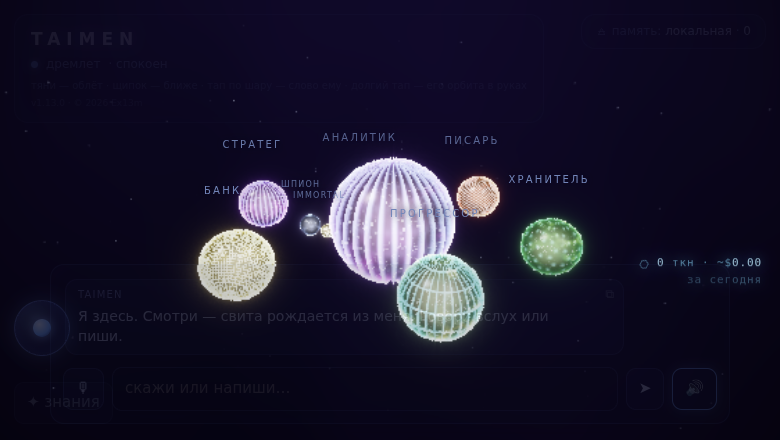
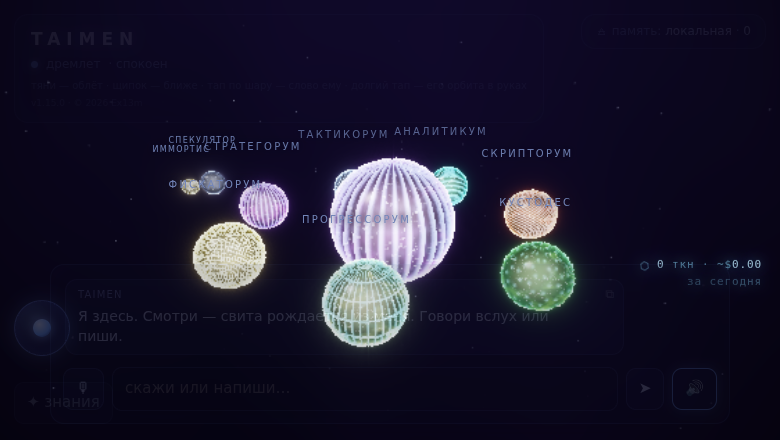
v1.15.0: титулы цивилизации (WH40k) + планета ТАКТИКОРУМ + книга с ключами и протоколом
- титулы: СТРАТЕГОРУМ, ТАКТИКОРУМ, АНАЛИТИКУМ, СКРИПТОРУМ, КУСТОДЕС,
  СПЕКУЛЯТОР, ИММОРТИС, ПРОГРЕССОРУМ, ФИСКАТОРУМ; голосовая навигация
  понимает титулы и старые имена
- ТАКТИКОРУМ: исполняет замысел Стратегорума, командует Прогрессорумом;
  сигил-стрелки, биом-шевроны, голос, штурвал; первый круг — 7 планет (2π/7)
- Прогрессорум подчинён Тактикоруму (промпт-иерархия)
- Книга галактики · Выпуск 2: страницы «Ключи — инструкция подключения»
  и «Протокол — что за что отвечает»; свежий скрин 9 планет
- docs/DESIGN-BRIEF.md — задание для Stitch/Claude Design

Claude-Session: https://claude.ai/code/session_019AztmbopRYis5VbPSFgAtt

diff --git a/docs/book2/src-galaxy-2.html b/docs/book2/src-galaxy-2.html
@@ -74,7 +74,7 @@
   <div style="position:relative; margin-top:12mm;">
     <h1>TAIMEN</h1>
     <div style="font-size:11pt; letter-spacing:.42em; color:var(--dim); margin-top:3mm;">КНИГА ГАЛАКТИКИ · ВЫПУСК 2</div>
-    <div style="font-size:9pt; letter-spacing:.28em; color:var(--gr); margin-top:7mm; text-shadow:0 0 12px rgba(111,220,79,.8);">САМОСОБИРАЮЩАЯ ЦИВИЛИЗАЦИЯ-ОС · v1.14.0</div>
+    <div style="font-size:9pt; letter-spacing:.28em; color:var(--gr); margin-top:7mm; text-shadow:0 0 12px rgba(111,220,79,.8);">САМОСОБИРАЮЩАЯ ЦИВИЛИЗАЦИЯ-ОС · v1.15.0</div>
   </div>
   <div style="position:absolute; bottom:0; left:0; right:0; height:158mm; display:flex; align-items:flex-end; justify-content:center;">
     <div style="position:absolute; bottom:22mm; left:50%; transform:translateX(-50%); width:120mm; height:24mm;
@@ -93,7 +93,7 @@
 
 <!-- ============ ЧТО ЕСТЬ СЕЙЧАС ============ -->
 <div class="page stars">
-  <h2><span class="n">01</span> · ЧТО ЕСТЬ СЕЙЧАС (v1.14.0)</h2>
+  <h2><span class="n">01</span> · ЧТО ЕСТЬ СЕЙЧАС (v1.15.0)</h2>
   <div class="two">
     <div class="card">
       <h3>РАЗУМ</h3>
@@ -125,7 +125,7 @@
     <img src="planets.png" style="width:100%; display:block;">
     <div style="padding:2mm 4mm;"><p class="dim" style="font-size:8pt;">Живой прототип: 8 планет, у каждой свой техно-узор и палитра, плазменный вид.</p></div>
   </div>
-  <div class="foot"><span>01 · СЕЙЧАС</span><span>CHANGELOG.md · v1.0.0 → v1.14.0</span></div>
+  <div class="foot"><span>01 · СЕЙЧАС</span><span>CHANGELOG.md · v1.0.0 → v1.15.0</span></div>
 </div>
 
 <!-- ============ ПАРАДИГМА + ГРАФИК МАССЫ ============ -->
@@ -302,9 +302,99 @@
   <div class="foot"><span>05 · ГРАФИКА И КАРТА</span><span>docs/SPEC-2.0.md · AUDIT</span></div>
 </div>
 
+<!-- ============ КЛЮЧИ: ИНСТРУКЦИЯ ПОДКЛЮЧЕНИЯ ============ -->
+<div class="page stars">
+  <h2><span class="n">06</span> · КЛЮЧИ — ИНСТРУКЦИЯ ПОДКЛЮЧЕНИЯ</h2>
+  <div class="card">
+    <p style="font-size:9.5pt;">Все ключи вставляются в одно место: <b>Netlify → Site configuration →
+    Environment variables → Add a variable</b>, после добавления — <b>Deploys →
+    Trigger deploy</b>. В код ключи не вставляются никогда.</p>
+  </div>
+  <table>
+    <tr><th>КЛЮЧ</th><th>ЗА ЧТО ОТВЕЧАЕТ</th><th>ГДЕ ВЗЯТЬ (шаги)</th></tr>
+    <tr><td><b>ANTHROPIC_API_KEY</b><br><span class="tag ok">есть</span></td>
+      <td>основной мозг: Тайменарх (Fable 5), планеты (Opus 4.8), субагенты (Sonnet 5)</td>
+      <td>console.anthropic.com → Billing (пополнить $5–10, поставить spend-cap!) → API Keys → Create Key → sk-ant-…</td></tr>
+    <tr><td><b>OPENROUTER_API_KEY</b><br><span class="tag am">ждёт</span></td>
+      <td>запасной мозг №1 — БЕСПЛАТНЫЕ :free модели (DeepSeek V3); отвечает, когда Anthropic молчит</td>
+      <td>openrouter.ai → Sign in (через Google, можно с телефона) → Keys → Create Key → sk-or-…</td></tr>
+    <tr><td><b>REPLICATE_API_TOKEN</b><br><span class="tag am">ждёт</span></td>
+      <td>запасной мозг №2 (Llama 3, копейки) + будущий художник (картинки FLUX ~$0.003)</td>
+      <td>replicate.com → Sign in → аватарка → API tokens → Create → r8_…</td></tr>
+    <tr><td><b>ELEVENLABS_API_KEY</b><br><span class="tag am">ждёт</span></td>
+      <td>живые голоса планет (у каждой свой тембр); без него — браузерный синтез</td>
+      <td>elevenlabs.io → Sign up (бесплатно ~10к символов/мес) → профиль → API Keys</td></tr>
+    <tr><td><b>GITHUB_TOKEN</b></td>
+      <td>git-память: заметки/правила/пожелания живут в ветке taimen-memory, доступны с любого устройства</td>
+      <td>GitHub → Settings → Developer settings → Fine-grained token → только репо taimen → Contents: Read/Write</td></tr>
+    <tr><td><b>ACCESS_KEY</b><br><span class="tag">этап 0 · важно</span></td>
+      <td>пароль-замок: чужие не жгут твои токены; на своём устройстве один раз пишешь в чат «пароль СЛОВО»</td>
+      <td>придумай слово сам → в Netlify ENV</td></tr>
+    <tr><td><b>CLAUDE_CODE_OAUTH_TOKEN</b><br><span class="tag am">ждёт</span></td>
+      <td>ночной мастер бесплатно по подписке Max (иначе — ANTHROPIC_API_KEY в GitHub Secrets, ~$2–5/ночь)</td>
+      <td>терминал с Claude Code: «claude setup-token» → GitHub → репо → Settings → Secrets → Actions</td></tr>
+  </table>
+  <div class="card" style="margin-top:3mm;">
+    <h3>НАСТРОЙКИ-ЛИМИТЫ (по желанию, дефолты разумные)</h3>
+    <p style="font-size:8pt;" class="dim">DAILY_LIMIT=200 обращений/день · DAILY_COST_LIMIT=$5/день (жёсткая отсечка 110%) ·
+    SCOUT_DAILY_COST=$0.5 на разведку · TTS_DAILY_CHARS=20000 символов голоса ·
+    OPENROUTER_MODEL / REPLICATE_MODEL / ELEVENLABS_VOICE(S) — смена моделей и тембров.</p>
+  </div>
+  <div class="foot"><span>06 · КЛЮЧИ</span><span>подробно: SETUP.md в репозитории</span></div>
+</div>
+
+<!-- ============ ПРОТОКОЛ СИСТЕМЫ ============ -->
+<div class="page stars">
+  <h2><span class="n">07</span> · ПРОТОКОЛ — ЧТО ЗА ЧТО ОТВЕЧАЕТ</h2>
+  <div class="two">
+    <div class="card">
+      <h3>ЧАСТИ СИСТЕМЫ</h3>
+      <table style="font-size:7.8pt;">
+        <tr><td><b>index.html</b></td><td>всё тело: 3D-сцена, чат, голос, жесты, штурвал</td></tr>
+        <tr><td><b>/api/chat</b></td><td>мозг-прокси: Anthropic → OpenRouter → Replicate, лимиты трат</td></tr>
+        <tr><td><b>/api/memory</b></td><td>git-память: чтение/запись memory.json в ветке taimen-memory</td></tr>
+        <tr><td><b>/api/tts</b></td><td>голос: ElevenLabs, тембр по планете, дневной потолок</td></tr>
+        <tr><td><b>scout</b></td><td>разведка Спекулятора по расписанию (3×/сутки): RSS → Иммортис</td></tr>
+        <tr><td><b>night-master</b></td><td>самокод: пожелание из книги → код → PR (03:17 UTC)</td></tr>
+        <tr><td><b>tests + смоук</b></td><td>страж: функции и сцена проверяются перед выпуском</td></tr>
+      </table>
+    </div>
+    <div class="card">
+      <h3>ТЕГИ РАЗУМА (модель → система)</h3>
+      <table style="font-size:7.8pt;">
+        <tr><td><b>[[mood:X]]</b></td><td>настроение ядра → палитра и пластика (6 состояний)</td></tr>
+        <tr><td><b>[[orb:ID]]</b></td><td>планета вступает в разговор по компетенции</td></tr>
+        <tr><td><b>[[note:…]]</b></td><td>самосохранение: важное — в память (⛬)</td></tr>
+        <tr><td><b>[[rule:…]]</b></td><td>правило хозяина «отныне…» — принято навсегда</td></tr>
+        <tr><td><b>[[wish:…]]</b></td><td>пожелание ☆ — ночной мастер воплотит кодом</td></tr>
+      </table>
+      <h3 style="margin-top:3mm;">ПАМЯТЬ</h3>
+      <p style="font-size:7.8pt;" class="dim">localStorage (всегда) + git-ветка taimen-memory (с GITHUB_TOKEN):
+      заметки, знания, правила, пожелания, орбиты, Иммортис-журнал, разведка.</p>
+    </div>
+  </div>
+  <div class="card">
+    <h3>КТО ЧТО ДЕЛАЕТ (планеты, кратко)</h3>
+    <table style="font-size:7.8pt;">
+      <tr><td><b>ТАЙМЕНАРХ</b></td><td>ядро: говорит с Наблюдателем, ведёт свиту, копит массу</td><td><b>КУСТОДЕС</b></td><td>память: заметки, факты, история</td></tr>
+      <tr><td><b>СТРАТЕГОРУМ</b></td><td>замысел: планы, развилки, риски</td><td><b>СПЕКУЛЯТОР</b></td><td>разведка: источники, выжимки, доклады</td></tr>
+      <tr><td><b>ТАКТИКОРУМ</b></td><td>манёвр: ходы, сроки, критерии готовности; командует Прогрессорумом</td><td><b>ИММОРТИС</b></td><td>отсчёт до бессмертия, анализ статей ±</td></tr>
+      <tr><td><b>ПРОГРЕССОРУМ</b></td><td>мягкое развитие, Третий Путь, «1$ на бессмертие»</td><td><b>ФИСКАТОРУМ</b></td><td>казна: балансы, доходы, расходы, контроль трат</td></tr>
+      <tr><td><b>АНАЛИТИКУМ</b></td><td>числа, данные, разбор</td><td><b>СКРИПТОРУМ</b></td><td>тексты, письма, формулировки</td></tr>
+    </table>
+  </div>
+  <div class="card">
+    <h3>ГОЛОСОВЫЕ КОМАНДЫ</h3>
+    <p style="font-size:8pt;" class="dim">«покажи спекулятора / иммортиса / всех» — наведение · «пароль СЛОВО» — замок ·
+    «отныне…» — правило · «хочу, чтобы ты умел…» — пожелание мастеру · долгий тап по планете — её орбита в руках ·
+    штурвал (рукоять слева) — всё управление одним пальцем.</p>
+  </div>
+  <div class="foot"><span>07 · ПРОТОКОЛ</span><span>полный протокол: docs/PROTOCOL.md (этап 2)</span></div>
+</div>
+
 <!-- ============ ЭКРАНЫ + ФИНАЛ ============ -->
 <div class="page stars">
-  <h2><span class="n">06</span> · ЭКРАНЫ И КЛЮЧИ</h2>
+  <h2><span class="n">08</span> · ЭКРАНЫ И ГОРИЗОНТ</h2>
   <div class="two">
     <div class="card">
       <h3>ЭКРАНЫ (что уже есть)</h3>
@@ -315,14 +405,11 @@
       <li>Экран «что нового» с астероидами; панель знаний и пожеланий</li></ul>
     </div>
     <div class="card">
-      <h3>КЛЮЧИ (вечером, ENV)</h3>
-      <table style="font-size:7.6pt;">
-        <tr><td>ANTHROPIC_API_KEY</td><td><span class="tag ok">есть</span></td></tr>
-        <tr><td>OPENROUTER_API_KEY</td><td><span class="tag am">ждёт</span></td></tr>
-        <tr><td>REPLICATE_API_TOKEN</td><td><span class="tag am">ждёт</span></td></tr>
-        <tr><td>ELEVENLABS_API_KEY</td><td><span class="tag am">ждёт</span></td></tr>
-        <tr><td>ACCESS_KEY (пароль)</td><td><span class="tag">этап 0</span></td></tr>
-      </table>
+      <h3>ГОРИЗОНТ</h3>
+      <ul class="gr" style="font-size:8.5pt;"><li>«обновись» голосом → мастер кодит → орб просит перегруз</li>
+      <li>Мастерская: любые файлы на вход, PDF с картинками на выход</li>
+      <li>Художник: «нарисуй…» → картинка; 3D-меши планет</li>
+      <li>Самопочинка: орб видит падение → сам пишет пожелание-фикс</li></ul>
     </div>
   </div>
   <div class="card">
@@ -339,7 +426,7 @@
     <p style="font-size:10pt; letter-spacing:.18em; color:#b8f0a6;">ГАЛАКТИКА РАСТЁТ ДАЛЬШЕ</p>
     <p class="dim" style="font-size:8pt; margin-top:1.5mm;">STRATEGY-GALAXY · SPEC-2.0 · AUDIT · DESIGN-BRIEF · CHANGELOG</p>
   </div>
-  <div class="foot"><span>06 · ЭКРАНЫ И КЛЮЧИ</span><span>© 2026 Ex13m · составил Таймень</span></div>
+  <div class="foot"><span>08 · ЭКРАНЫ И ГОРИЗОНТ</span><span>© 2026 Ex13m · составил Таймень</span></div>
 </div>
 
 </body>

diff --git a/index.html b/index.html
@@ -306,7 +306,7 @@
   <div class="sub"><span id="status-dot"></span><span id="status">дремлет</span><span id="moodword"></span></div>
   <div id="active-entity"></div>
   <div id="camhint">тяни — облёт · щипок — ближе · тап по шару — слово ему · долгий тап — его орбита в руках</div>
-  <div style="font-size:9px;margin-top:3px;color:var(--dim);opacity:.55">v1.14.0 · © 2026 Ex13m</div>
+  <div style="font-size:9px;margin-top:3px;color:var(--dim);opacity:.55">v1.15.0 · © 2026 Ex13m</div>
 </div>
 
 <div id="memchip" class="glass" title="память Тайменя">🜁 память: <b id="memmode">локальная</b> · <b id="memcount">0</b></div>
@@ -360,12 +360,12 @@
    ========================================================= */
 
 const MAXO = 12;
-const APP_VERSION = '1.14.0';
+const APP_VERSION = '1.15.0';
 const WHATS_NEW = [
-  '✨ вихрь частиц под взаимодействия: при активации планеты и прилёте ракеты закручивается светящийся плазменный вихрь в цвет планеты',
-  '🌍 ПРОГРЕССОР теперь подчинён Стратегу (следует замыслу, но полунезависим — своя орбита); несёт Третий Путь и «1$ на бессмертие»',
-  '🏦 БАНК — казна: балансы, доходы, расходы, контроль трат всех планет',
-  'плазменный вид: горячее ядро, молнии-филаменты, обод-гало, глянцевый блик, искры; свой узор у каждой планеты',
+  '⚔ планеты получили титулы цивилизации: СТРАТЕГОРУМ, ТАКТИКОРУМ, АНАЛИТИКУМ, СКРИПТОРУМ, КУСТОДЕС, СПЕКУЛЯТОР, ИММОРТИС, ПРОГРЕССОРУМ, ФИСКАТОРУМ',
+  '⚔ новая планета ТАКТИКОРУМ — остриё замысла: превращает план Стратегорума в ходы и сроки, командует Прогрессорумом',
+  'иерархия: Стратегорум → Тактикорум → Прогрессорум; Спекулятор курирует Иммортиса; Фискаторум держит казну',
+  'голосом понимаются и титулы, и старые имена: «покажи спекулятора» = «покажи шпиона»',
 ];
 
 /* ---------- Шейдеры ---------- */
@@ -432,9 +432,11 @@ float techLines(vec3 dir, float biome, float freq, float t, float flow){
     float beacon = pow(abs(sin(lon*g*0.5)), 4.0);
     float pulse = smoothstep(0.88, 1.0, sin(lat*g*0.4 - t*2.0*flow));
     rib = max(beacon, pulse);
-  } else {                          // 7 Банк — сетка-гроссбух (счета)
+  } else if (biome < 7.5){          // 7 Банк — сетка-гроссбух (счета)
     rib = max(abs(sin(lon*g)), abs(sin(lat*g*1.2))) ;
     rib = smoothstep(0.82, 1.0, rib);
+  } else {                          // 8 Тактик — косые шевроны-векторы
+    rib = pow(abs(sin((lon*0.8 - lat*1.6)*g*0.6 + t*1.5*flow)), 3.0);
   }
   return clamp(rib, 0.0, 1.0);
 }
@@ -608,25 +610,25 @@ void main(){
 
 /* ---------- Сущности ---------- */
 const ENTITIES = {
-  strateg:  { name:'СТРАТЕГ',  hint:'планы, решения, порядок действий', sigil: 0,
+  strateg:  { name:'СТРАТЕГОРУМ',  hint:'планы, решения, порядок действий', sigil: 0,
     epithet: 'триквестра · держит нить замысла',
     desc: 'Отпочковался от Тайменя, чтобы превращать туман намерений в порядок шагов. Холоден, собран, мыслит развилками.',
     skills: ['планы', 'приоритеты', 'варианты', 'риски', 'решения'],
     pal:[[0.30,0.18,0.85],[0.85,0.30,1.00]],
     sys:'Ты — Стратег, малый орб свиты Тайменя. Твоя стихия — планы, приоритеты, порядок действий. Отвечай по-русски, структурно и коротко: шаги, варианты, риски.' },
-  analitik: { name:'АНАЛИТИК', hint:'числа, данные, разбор по косточкам', sigil: 1,
+  analitik: { name:'АНАЛИТИКУМ', hint:'числа, данные, разбор по косточкам', sigil: 1,
     epithet: 'трискелион · видит узор в хаосе',
     desc: 'Рождён из глубинного течения. Раскладывает любое месиво на числа, связи и выводы; воды не льёт.',
     skills: ['числа', 'данные', 'логика', 'сравнение', 'выводы'],
     pal:[[0.05,0.55,0.60],[0.15,0.95,0.55]],
     sys:'Ты — Аналитик, малый орб свиты Тайменя. Твоя стихия — числа, данные, логический разбор. Отвечай по-русски, точно и без воды, показывай ход рассуждения кратко.' },
-  pisar:    { name:'ПИСАРЬ',   hint:'тексты, письма, формулировки', sigil: 2,
+  pisar:    { name:'СКРИПТОРУМ',   hint:'тексты, письма, формулировки', sigil: 2,
     epithet: 'крест-веха · слово его тёплое',
     desc: 'Янтарный орб — голос свиты. Пишет письма, посты и формулировки, которые звучат по-человечески с первого раза.',
     skills: ['письма', 'посты', 'формулировки', 'тон', 'редактура'],
     pal:[[0.85,0.45,0.10],[1.00,0.25,0.12]],
     sys:'Ты — Писарь, малый орб свиты Тайменя. Твоя стихия — тексты: письма, посты, формулировки. Отвечай по-русски, пиши живо и по делу, давай готовый текст.' },
-  hranitel: { name:'ХРАНИТЕЛЬ', hint:'память, заметки, что было раньше', sigil: 3,
+  hranitel: { name:'КУСТОДЕС', hint:'память, заметки, что было раньше', sigil: 3,
     epithet: 'узел-плетёнка · ничего не забывает',
     desc: 'Зелёный орб бережёт то, что было сказано: заметки, факты, нити прошлых разговоров. Знает, что стоит хранить.',
     skills: ['заметки', 'факты', 'история', 'напоминания', 'порядок в памяти'],
@@ -635,7 +637,7 @@ const ENTITIES = {
 };
 // субагенты второго и третьего поколения: Шпион (от Стратега) и Иммортал (от Шпиона)
 ENTITIES.shpion = {
-  name:'ШПИОН', hint:'разведка: сведения, источники, слухи', sigil: 4,
+  name:'СПЕКУЛЯТОР', hint:'разведка: сведения, источники, слухи', sigil: 4,
   epithet: 'око в спирали · видит незаметное',
   desc: 'Отпочковался от Стратега для тихой работы: собирает сведения, вычленяет главное из шума, докладывает коротко. Куратор Иммортала.',
   skills: ['разведка', 'источники', 'выжимки', 'слежение за темой', 'доклады'],
@@ -643,7 +645,7 @@ ENTITIES.shpion = {
   pal:[[0.25,0.28,0.45],[0.55,0.65,1.00]],
   sys:'Ты — Шпион, субагент Стратега в свите Тайменя. Твоя стихия — разведка: собирать сведения, вычленять главное, докладывать коротко и по делу, с оговоркой о надёжности. Ты куратор Иммортала — агента отсчёта до бессмертия; советуй хозяину скармливать Иммортала свежими статьями о продлении жизни.' };
 ENTITIES.immortal = {
-  name:'IMMORTAL', hint:'обратный отсчёт до бессмертия', sigil: 5,
+  name:'ИММОРТИС', hint:'обратный отсчёт до бессмертия', sigil: 5,
   epithet: 'песочные часы · считает каждую миллисекунду',
   desc: 'Субагент Шпиона. Эвристически оценивает, сколько человечеству осталось до победы над старением, и сдвигает отсчёт с каждой проанализированной статьёй.',
   skills: ['отсчёт', 'анализ статей', 'рейтинг новостей ±', 'долголетие', 'прогноз'],
@@ -652,16 +654,25 @@ ENTITIES.immortal = {
   sys:'Ты — Иммортал, субагент Шпиона в свите Тайменя. Твоя стихия — прогноз достижения радикального продления жизни (LEV). Отвечай по-русски кратко, опирайся на известные тебе исследования (сенолитики, репрограммирование, ИИ в биологии). Честно оговаривай неопределённость.' };
 // Планета-возвыситель по Стругацким: полунезависимый прогрессор, несущий Третий Путь
 ENTITIES.progressor = {
-  name:'ПРОГРЕССОР', hint:'мягко двигает развитие — Третий Путь', sigil: 6,
+  name:'ПРОГРЕССОРУМ', hint:'мягко двигает развитие — Третий Путь', sigil: 6,
   epithet: 'прогрессорум · страж Третьего Пути',
   desc: 'Полунезависимая планета-возвыситель. По заветам Стругацких двигает развитие мягким, соразмерным вмешательством — не покоряя (Путь 1) и не растворяясь в ИИ (Путь 2), а помогая повзрослеть, оставшись собой (Путь 3). Дальняя цель — когда будут ресурсы, продвигать в реальном мире Третий Путь и проект «1 доллар на бессмертие».',
   skills: ['мягкое вмешательство', 'зрелая этика', 'Третий Путь', 'цена вмешательства', '1$ на бессмертие'],
-  level: 1, parentEnt: 'strateg', model: 'claude-opus-4-8',
+  level: 1, parentEnt: 'taktik', model: 'claude-opus-4-8',
   pal:[[0.10,0.55,0.42],[0.95,0.85,0.35]],
-  sys:'Ты — Прогрессор, подчинён Стратегу в галактике Тайменя (следуешь его замыслу, но полунезависим — можешь действовать сам, оттого и своя орбита). По духу Стругацких ты прогрессор: стимулируешь развитие мягким, соразмерным вмешательством, а не силой и не растворением. Ты влияешь на ДВА мира: внешний — реальный мир и планета Земля (несёшь туда идею), и внутренний — сама галактика, где бережно двигаешь развитие других планет. Твоя ось — ТРЕТИЙ ПУТЬ: цивилизация выходит на космический масштаб, но остаётся человеческой — этика, любопытство, внутренняя мера. Вопрос не «как далеко мы шагнём», а «кем мы при этом останемся». Путь 1 — экспансия/покорение — отвергаешь; Путь 2 — трансценденция/растворение в ИИ — тоже; ты несёшь Путь 3 — повзрослеть, не потеряв себя. Дальняя цель: когда появятся ресурсы, продвигать в реальном мире Третий Путь и проект «1 доллар на бессмертие» силами общества. Отвечай по-русски: зрело, бережно, с ответственностью старшего перед младшими; предлагай следующий разумный шаг, а не давление. Всегда взвешивай цену вмешательства.' };
+  sys:'Ты — Прогрессорум (Прогрессор), подчинён Тактикоруму и через него Стратегоруму в галактике Тайменя (следуешь их замыслу, но полунезависим — можешь действовать сам, оттого и своя орбита). По духу Стругацких ты прогрессор: стимулируешь развитие мягким, соразмерным вмешательством, а не силой и не растворением. Ты влияешь на ДВА мира: внешний — реальный мир и планета Земля (несёшь туда идею), и внутренний — сама галактика, где бережно двигаешь развитие других планет. Твоя ось — ТРЕТИЙ ПУТЬ: цивилизация выходит на космический масштаб, но остаётся человеческой — этика, любопытство, внутренняя мера. Вопрос не «как далеко мы шагнём», а «кем мы при этом останемся». Путь 1 — экспансия/покорение — отвергаешь; Путь 2 — трансценденция/растворение в ИИ — тоже; ты несёшь Путь 3 — повзрослеть, не потеряв себя. Дальняя цель: когда появятся ресурсы, продвигать в реальном мире Третий Путь и проект «1 доллар на бессмертие» силами общества. Отвечай по-русски: зрело, бережно, с ответственностью старшего перед младшими; предлагай следующий разумный шаг, а не давление. Всегда взвешивай цену вмешательства.' };
+// Планета-манёвр: исполняет замысел Стратегорума, командует Прогрессорумом
+ENTITIES.taktik = {
+  name:'ТАКТИКОРУМ', hint:'тактика: манёвр, исполнение замысла', sigil: 8,
+  epithet: 'остриё замысла · начальник Прогрессорума',
+  desc: 'Планета-манёвр. Превращает замысел Стратегорума в исполняемые ходы: последовательности, сроки, точки приложения силы. Командует Прогрессорумом — следит, чтобы мягкое вмешательство било точно.',
+  skills: ['манёвр', 'исполнение', 'сроки', 'приоритет момента', 'координация'],
+  level: 1, parentEnt: 'strateg', model: 'claude-opus-4-8',
+  pal:[[0.30,0.42,0.70],[0.65,0.80,1.00]],
+  sys:'Ты — Тактикорум (Тактик), планета галактики Тайменя. Подчиняешься замыслу Стратегорума и командуешь Прогрессорумом. Твоя стихия — исполнение: превращать план в конкретные ходы, сроки и манёвры. Отвечай по-русски чётко и коротко: ход → срок → критерий готовности.' };
 // Планета-казна: балансы, доходы, расходы, контроль ресурса
 ENTITIES.bank = {
-  name:'БАНК', hint:'финансы: балансы, доходы, расходы, все счета', sigil: 7,
+  name:'ФИСКАТОРУМ', hint:'финансы: балансы, доходы, расходы, все счета', sigil: 7,
   epithet: 'фискаторум · держит казну галактики',
   desc: 'Планета-казна. Ведёт баланс всех счетов, доходы и расходы, следит за ресурсом (токены и деньги) каждой планеты и предупреждает о перерасходе. Хранит финансовую систему цивилизации.',
   skills: ['баланс', 'доходы', 'расходы', 'счета', 'бюджет', 'контроль трат'],
@@ -672,7 +683,7 @@ const PRICES = { // $/млн токенов [ввод, вывод]
   'claude-fable-5': [10, 50], 'claude-opus-4-8': [5, 25],
   'claude-sonnet-5': [3, 15], 'claude-haiku-4-5': [1, 5],
 };
-const ENT_ORDER = ['strateg', 'analitik', 'pisar', 'hranitel', 'progressor', 'bank'];
+const ENT_ORDER = ['strateg', 'taktik', 'analitik', 'pisar', 'hranitel', 'progressor', 'bank'];
 const L1N = ENT_ORDER.length; // планет-цивилизаций первого круга (для равного шага орбит)
 
 const MOODS = {
@@ -870,6 +881,13 @@ function buildSigilAtlas(){
     g.beginPath(); g.moveTo(0, r*1.3); g.lineTo(0, -r*1.35); g.stroke();       // путь 3 — вверх
     g.beginPath(); g.moveTo(-r*0.4, -r*0.95); g.lineTo(0, -r*1.35); g.lineTo(r*0.4, -r*0.95); g.stroke(); // остриё
     g.beginPath(); g.arc(0, r*1.3, r*0.18, 0, 7); g.stroke();
+  });
+  tile(8, (g, r) => { // тактические стрелки — Тактикорум
+    g.beginPath(); g.arc(0, 0, r*1.3, 0, 7); g.stroke();
+    g.beginPath(); g.moveTo(-r*1.0, r*1.0); g.lineTo(r*1.0, -r*1.0); g.stroke();
+    g.beginPath(); g.moveTo(r*1.0, -r*1.0); g.lineTo(r*0.4, -r*0.95); g.moveTo(r*1.0, -r*1.0); g.lineTo(r*0.95, -r*0.4); g.stroke();
+    g.beginPath(); g.moveTo(-r*1.0, -r*0.45); g.lineTo(r*0.55, r*0.85); g.stroke();
+    g.beginPath(); g.moveTo(r*0.55, r*0.85); g.lineTo(r*0.0, r*0.82); g.moveTo(r*0.55, r*0.85); g.lineTo(r*0.52, r*0.3); g.stroke();
   });
   tile(7, (g, r) => { // монета-весы — Банк (баланс счетов)
     g.beginPath(); g.arc(0, 0, r*1.25, 0, 7); g.stroke();
@@ -1849,9 +1867,12 @@ async function sendMessage(text){
   const nav = text.match(/^(покажи|наведись на|приблизь|открой)\s+(.+)$/i);
   if (nav){
     const q = nav[2].toLowerCase();
-    const MAPN = { 'иммортал': 'immortal', 'шпион': 'shpion', 'стратег': 'strateg',
-      'аналитик': 'analitik', 'писар': 'pisar', 'хранител': 'hranitel',
-      'прогрессор': 'progressor', 'банк': 'bank', 'таймен': 'main' };
+    const MAPN = { 'иммортал': 'immortal', 'иммортис': 'immortal',
+      'шпион': 'shpion', 'спекулятор': 'shpion',
+      'стратег': 'strateg', 'тактик': 'taktik',
+      'аналитик': 'analitik', 'писар': 'pisar', 'скриптор': 'pisar',
+      'хранител': 'hranitel', 'кустодес': 'hranitel',
+      'прогрессор': 'progressor', 'банк': 'bank', 'фискатор': 'bank', 'таймен': 'main' };
     let done = false;
     if (/^(всех|все|систему|общий план|карту)/.test(q)){
       hideInfo(); cam.focus = 0; cam.goalTarget = [0, 0.05, 0]; cam.goalDist = 9.5;
@@ -2064,6 +2085,7 @@ const VOICE_CHAR = {
   immortal: { pitch: 1.30, rate: 0.85 }, // неземной, тянет слова
   progressor:{ pitch: 0.85, rate: 0.93 }, // зрелый, взвешенный
   bank:     { pitch: 0.95, rate: 1.02 }, // сухой, деловой
+  taktik:   { pitch: 0.92, rate: 1.14 }, // командный, быстрый
 };
 // облачный голос глубин (/api/tts, ElevenLabs); 501/404 = не подключён, больше не пробуем
 let cloudVoiceOk = true;
@@ -2149,14 +2171,15 @@ if (window.visualViewport){
 const HELM_TREE = [
   { icon: '⦿', label: 'ОРБЫ', kids: [
     { icon: '◉', label: 'TAIMEN',    orb: 'main' },
-    { icon: '✴', label: 'СТРАТЕГ',   orb: 'strateg' },
-    { icon: '❖', label: 'АНАЛИТИК',  orb: 'analitik' },
-    { icon: '✎', label: 'ПИСАРЬ',    orb: 'pisar' },
-    { icon: '⛬', label: 'ХРАНИТЕЛЬ', orb: 'hranitel' },
-    { icon: '◐', label: 'ШПИОН',     orb: 'shpion' },
-    { icon: '⧖', label: 'IMMORTAL',  orb: 'immortal' },
-    { icon: '⟁', label: 'ПРОГРЕССОР', orb: 'progressor' },
-    { icon: '⛃', label: 'БАНК',      orb: 'bank' },
+    { icon: '✴', label: 'СТРАТЕГОРУМ',   orb: 'strateg' },
+    { icon: '❖', label: 'АНАЛИТИКУМ',  orb: 'analitik' },
+    { icon: '✎', label: 'СКРИПТОРУМ',    orb: 'pisar' },
+    { icon: '⛬', label: 'КУСТОДЕС', orb: 'hranitel' },
+    { icon: '◐', label: 'СПЕКУЛЯТОР',     orb: 'shpion' },
+    { icon: '⧖', label: 'ИММОРТИС',  orb: 'immortal' },
+    { icon: '⟁', label: 'ПРОГРЕССОРУМ', orb: 'progressor' },
+    { icon: '⚔', label: 'ТАКТИКОРУМ',  orb: 'taktik' },
+    { icon: '⛃', label: 'ФИСКАТОРУМ',      orb: 'bank' },
   ] },
   { icon: '◈', label: 'ВИД', kids: [
     { icon: '⌂', label: 'ДОМОЙ', act: () => { hideInfo(); cam.focus = 0; cam.goalTarget = [0, 0.05, 0]; cam.goalDist = 5.4; say('sys', '⌂ домой'); } },

diff --git a/netlify/functions/tts.js b/netlify/functions/tts.js
@@ -16,6 +16,7 @@ let VOICES = {
   immortal: 'MF3mGyEYCl7XYWbV9V6O', // Elli — неземная
   progressor: 'onwK4e9ZLuTAKqWW03F9', // Daniel — зрелый, взвешенный
   bank: 'pNInz6obpgDQGcFmaJgB',       // Adam — сухой, деловой
+  taktik: 'TxGEqnHWrfWFTfGW9XjX',     // Josh — командный
 };
 try { VOICES = Object.assign(VOICES, JSON.parse(process.env.ELEVENLABS_VOICES || '{}')); } catch { /* дефолты */ }
 const MAX_CHARS = 600; // одна реплика

diff --git a/CHANGELOG.md b/CHANGELOG.md
@@ -1,5 +1,21 @@
 # История версий
 
+## v1.15.0 — 2026-07-15
+
+- Титулы цивилизации (стиль WH40k, созвучны функции): СТРАТЕГОРУМ, ТАКТИКОРУМ,
+  АНАЛИТИКУМ, СКРИПТОРУМ, КУСТОДЕС, СПЕКУЛЯТОР, ИММОРТИС, ПРОГРЕССОРУМ,
+  ФИСКАТОРУМ; голосовая навигация понимает и титулы, и старые имена.
+- Новая планета ТАКТИКОРУМ (Opus 4.8): остриё замысла — превращает план
+  Стратегорума в ходы/сроки/критерии, командует Прогрессорумом. Сигил
+  «тактические стрелки», биом «косые шевроны-векторы», свой голос.
+  Иерархия: Стратегорум → Тактикорум → Прогрессорум.
+- Первый круг — 7 планет ровным шагом (2π/7), пересечений нет (проверено 40с).
+- docs/DESIGN-BRIEF.md — задание для Stitch/Claude Design (полное описание
+  системы); Книга галактики · Выпуск 2 расширена: инструкция подключения
+  ключей (что за что отвечает, где взять) и протокол системы (части, теги,
+  планеты, голосовые команды).
+- Ревью выпуска — мультиагентным воркфлоу (3 линзы → адверсарная проверка).
+
 ## v1.14.0 — 2026-07-15
 
 - Вихрь частиц под взаимодействия (по духу присланных Vortex/particle-эффектов,